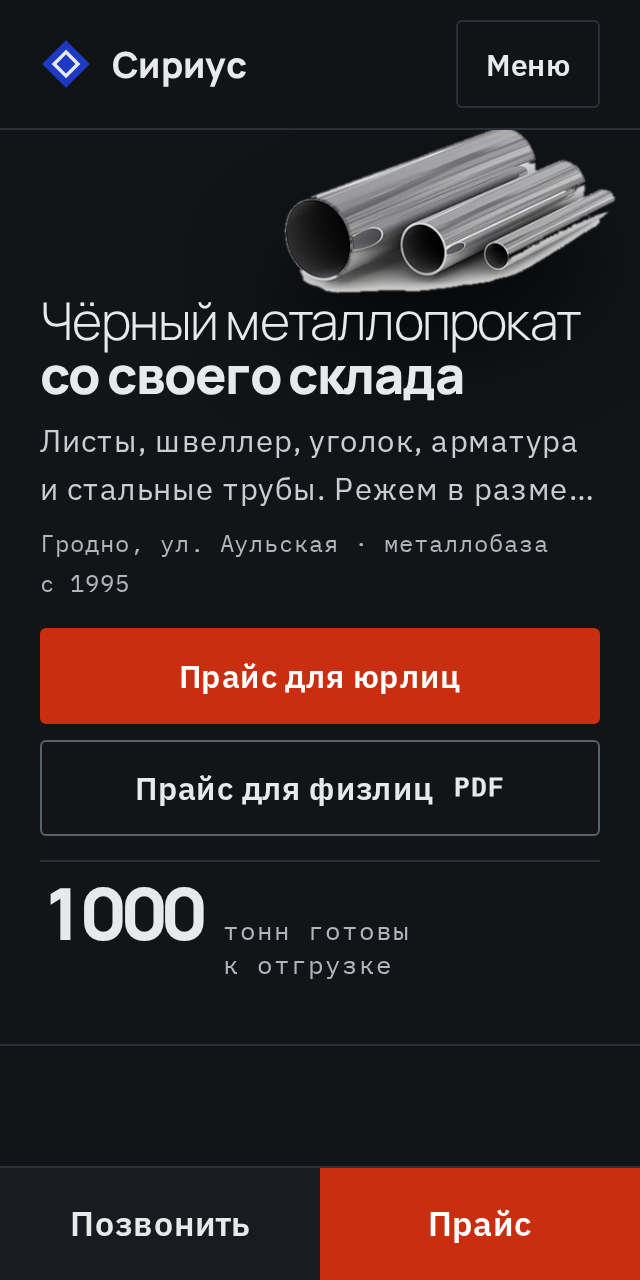
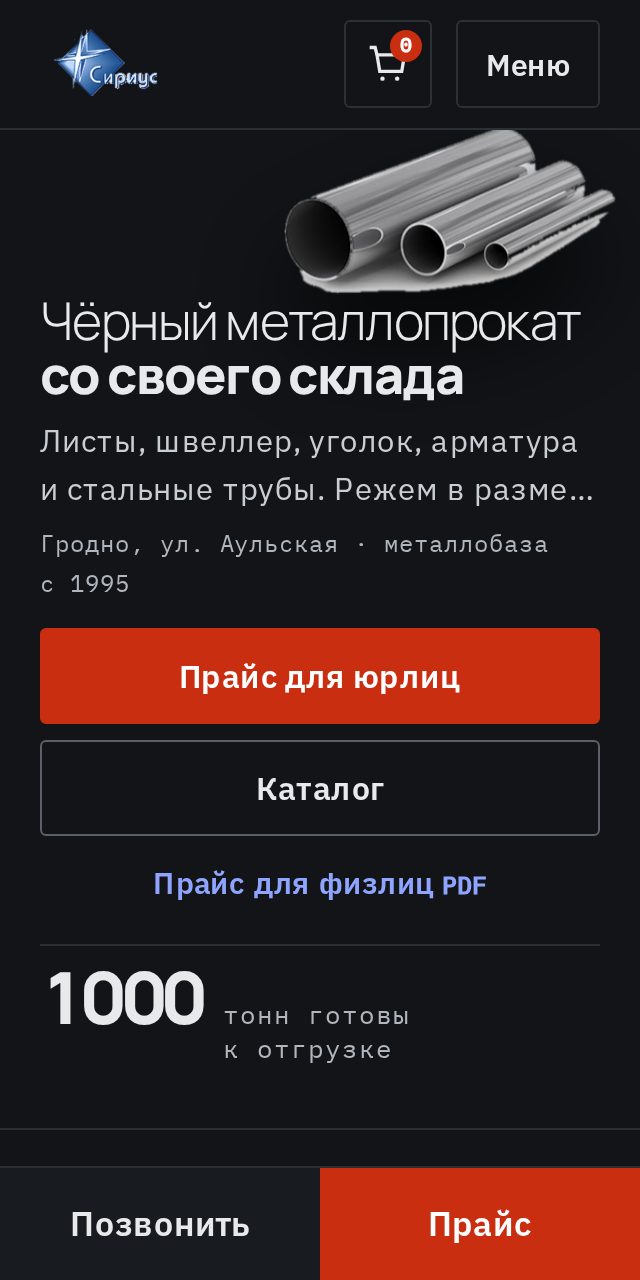
UX pass: header hierarchy and clearer homepage CTAs
- Header: primary bar (logo, nav, Прайс, callback, wishlist, lang);
  phones grouped Офис/Моб. + warehouse hours strip
- Mobile: progressive disclosure — phones/callback in Меню; dock Call|Прайс
- Hero: primary price + Catalog; физлица PDF as secondary link
- Same facts, phones, logo, photos, WP comments

diff --git a/assets/style.css b/assets/style.css
@@ -9,7 +9,7 @@
 }
 *,*::before,*::after{box-sizing:border-box}
 html{-webkit-text-size-adjust:100%;scroll-behavior:smooth}
-body{margin:0;background:var(--bg);color:var(--ink);font:400 1.0625rem/1.65 var(--f-t);letter-spacing:.01em;overflow-wrap:break-word;text-wrap:pretty}
+html{overflow-x:clip}body{margin:0;background:var(--bg);color:var(--ink);font:400 1.0625rem/1.65 var(--f-t);letter-spacing:.01em;overflow-wrap:break-word;text-wrap:pretty}
 ::selection{background:var(--brand);color:#fff}
 img{max-width:100%;height:auto;display:block}
 a{color:inherit}
@@ -34,36 +34,44 @@ h3{font-family:var(--f-d);font-weight:700;letter-spacing:-.02em}
 .link{color:var(--link);font-weight:600;text-decoration:none;border-bottom:1px solid transparent;transition:border-color .16s}
 .link:hover{border-color:currentColor}
 
-/* header — two bars like sirius.by, dark «Под краном» */
-.hdr{position:sticky;top:0;z-index:20;background:rgba(18,20,23,.97);border-bottom:1px solid var(--line)}
-.hdr__top{border-bottom:1px solid var(--line);background:#0e1013;padding:10px var(--pad)}
-.hdr__top-in{max-width:var(--max);margin:auto;padding:0;display:flex;align-items:center;justify-content:space-between;gap:20px;flex-wrap:wrap}
-.hdr__callback{font:600 .875rem/1.3 var(--f-t);color:var(--link);text-decoration:none;border-bottom:1px solid transparent;white-space:nowrap}
-.hdr__callback:hover{border-color:currentColor}
-.hdr__phones{display:flex;flex-wrap:wrap;gap:6px 22px;list-style:none;margin:0;padding:0;font:500 .8125rem/1.35 var(--f-m);font-variant-numeric:tabular-nums}
-.hdr__phones a{color:var(--ink);text-decoration:none;display:inline-flex;align-items:center;min-height:28px}
-.hdr__phones a:hover{color:var(--link)}
-.hdr__bottom-in{max-width:var(--max);margin:auto;padding:10px var(--pad);display:flex;align-items:center;gap:28px}
+/* header — UX hierarchy: logo · nav · Прайс / звонок / список · phones grouped */
+.hdr{position:sticky;top:0;z-index:20;background:rgba(18,20,23,.98);border-bottom:1px solid var(--line)}
+.hdr__bar-in{max-width:var(--max);margin:auto;padding:12px var(--pad);display:flex;align-items:center;gap:28px;position:relative}
 .brand{display:flex;align-items:center;text-decoration:none;flex:none}
-.brand__logo{display:block;height:52px;width:auto}
-.nav{margin-left:auto}.nav ul{display:flex;gap:22px}
-.nav a{text-decoration:none;color:var(--dim);font-size:.9375rem;transition:color .16s;display:inline-flex;align-items:center;min-height:44px;padding:0 2px}.nav a:hover{color:var(--ink)}
-.hdr__tools{display:flex;align-items:center;gap:16px;flex:none}
-.lang{display:flex;align-items:center;gap:0;border:1px solid var(--line);border-radius:3px;overflow:hidden;font:700 .75rem/1 var(--f-m);letter-spacing:.04em}
-.lang a{padding:10px 12px;text-decoration:none;color:var(--dim);min-height:36px;display:inline-flex;align-items:center}
-.lang a:hover{color:var(--ink);background:var(--bg-2)}
-.lang a.is-active{background:var(--brand);color:#fff}
-.wish{position:relative;display:inline-flex;align-items:center;justify-content:center;width:44px;height:44px;color:var(--ink);text-decoration:none;border:1px solid var(--line);border-radius:3px}
+.brand__logo{display:block;height:48px;width:auto}
+.nav{flex:1;min-width:0}
+.nav ul{display:flex;flex-wrap:wrap;gap:4px 20px;justify-content:center}
+.nav a{text-decoration:none;color:var(--dim);font-size:.9375rem;font-weight:500;display:inline-flex;align-items:center;min-height:44px;padding:0 4px;border-bottom:2px solid transparent;transition:color .16s,border-color .16s}
+.nav a:hover{color:var(--ink);border-bottom-color:var(--line)}
+.hdr__actions{display:flex;align-items:center;gap:12px;flex:none}
+.hdr__callback{font:600 .8125rem/1.2 var(--f-t);color:var(--link);text-decoration:none;padding:10px 12px;min-height:44px;display:inline-flex;align-items:center;border:1px solid var(--line);border-radius:3px;white-space:nowrap}
+.hdr__callback:hover{border-color:#3a4048;background:var(--bg-2)}
+.wish{position:relative;display:inline-flex;align-items:center;gap:8px;min-height:44px;padding:0 12px 0 10px;color:var(--ink);text-decoration:none;border:1px solid var(--line);border-radius:3px;font:600 .8125rem/1 var(--f-t)}
 .wish:hover{background:var(--bg-2);border-color:#5a616a}
-.wish__badge{position:absolute;top:4px;right:4px;min-width:16px;height:16px;padding:0 4px;border-radius:8px;background:var(--act);color:#fff;font:700 10px/16px var(--f-m);text-align:center}
-.mnav{display:none;position:relative;margin-left:auto}
-.mnav summary{list-style:none;cursor:pointer;font:600 .9375rem/1 var(--f-t);padding:10px 12px;border:1px solid var(--line);border-radius:3px;min-height:42px;display:flex;align-items:center}
+.wish__badge{position:absolute;top:6px;left:26px;min-width:16px;height:16px;padding:0 4px;border-radius:8px;background:var(--act);color:#fff;font:700 10px/16px var(--f-m);text-align:center}
+.wish__lbl{color:var(--dim)}
+.lang{display:flex;align-items:center;gap:6px;font:700 .75rem/1 var(--f-m);letter-spacing:.04em;padding-left:4px}
+.lang a{color:var(--dim);text-decoration:none;min-height:44px;display:inline-flex;align-items:center;padding:0 4px}
+.lang a.is-active{color:var(--ink)}
+.lang a:hover{color:var(--ink)}
+.lang__sep{color:var(--line);user-select:none}
+.mnav{display:none;position:relative;z-index:5;flex:none}
+.mnav summary{list-style:none;cursor:pointer;font:600 .9375rem/1 var(--f-t);padding:0 14px;border:1px solid var(--line);border-radius:3px;min-height:44px;min-width:44px;display:flex;align-items:center;justify-content:center}
 .mnav summary::-webkit-details-marker{display:none}
-.mnav[open] summary{border-color:#5a616a}
-.mnav ul{position:absolute;right:0;top:calc(100% + 8px);min-width:220px;background:var(--bg-2);border:1px solid var(--line);border-radius:3px;padding:8px 0;z-index:50}
-.mnav a{display:block;padding:12px 18px;text-decoration:none;color:var(--ink);font-weight:500}
+.mnav[open] summary{border-color:#5a616a;background:var(--bg-2)}
+.mnav ul{position:absolute;right:0;top:calc(100% + 8px);min-width:260px;background:var(--bg-2);border:1px solid var(--line);border-radius:3px;padding:8px 0;z-index:50;box-shadow:0 16px 40px rgba(0,0,0,.45);max-height:min(75vh,560px);overflow:auto}
+.mnav a{display:flex;align-items:center;min-height:48px;padding:0 18px;text-decoration:none;color:var(--ink);font-weight:500}
 .mnav a:hover{background:#1f2328}
-.mnav{z-index:50}
+.mnav__phones{display:grid;gap:0;padding:8px 0;border-top:1px solid var(--line);border-bottom:1px solid var(--line);margin:6px 0}
+.mnav__phones a{font:500 .875rem/1.2 var(--f-m);color:var(--dim);min-height:44px}
+
+.hdr__contact{border-top:1px solid var(--line);background:#0e1013;padding:12px var(--pad)}
+.hdr__contact-in{max-width:var(--max);margin:auto;padding:0;display:flex;align-items:center;gap:28px;flex-wrap:wrap}
+.phone-group{display:flex;align-items:baseline;gap:12px;flex-wrap:wrap}
+.phone-group__lbl{font:700 .6875rem/1 var(--f-m);letter-spacing:.1em;text-transform:uppercase;color:var(--dim);margin-right:4px}
+.phone-group a{font:500 .875rem/1.3 var(--f-m);font-variant-numeric:tabular-nums;color:var(--ink);text-decoration:none;min-height:36px;display:inline-flex;align-items:center}
+.phone-group a:hover{color:var(--link)}
+.hdr__hours{margin-left:auto;color:var(--dim);font-size:.75rem}
 
 /* hero — exhibit in dark hall */
 .hero{border-bottom:1px solid var(--line);overflow:hidden;min-height:min(880px,calc(100svh - 66px))}
@@ -73,7 +81,8 @@ h3{font-family:var(--f-d);font-weight:700;letter-spacing:-.02em}
 .hero h1{font-size:clamp(2.5rem,5.8vw,4.75rem);line-height:1.02;margin:0 0 22px;max-width:18ch}
 .hero__lead{color:#c9ced4;font-size:1.125rem;line-height:1.55;max-width:36em;margin-bottom:14px;letter-spacing:.015em}
 .hero__meta{color:var(--dim);margin-bottom:32px;font-size:.8125rem}
-.hero__acts{display:flex;flex-wrap:wrap;gap:12px}
+.hero__acts{display:flex;flex-wrap:wrap;align-items:center;gap:12px 18px}
+.hero__pdf{font-size:.9375rem}
 .hero__ton{position:relative;z-index:1;text-align:right;display:flex;flex-direction:column;align-items:flex-end;padding:12px 0;border-bottom:1px solid var(--line)}
 .hero__n{font:800 clamp(4.5rem,12vw,9.5rem)/.85 var(--f-d);letter-spacing:-.045em;font-variant-numeric:tabular-nums}
 .hero__ton .mono{color:var(--dim);margin-top:10px;max-width:12ch;text-align:right}
@@ -96,7 +105,7 @@ h3{font-family:var(--f-d);font-weight:700;letter-spacing:-.02em}
 .show__group{font:500 .75rem/1.3 var(--f-m);letter-spacing:.1em;text-transform:uppercase;color:var(--dim)}
 .show__name{font:700 1.375rem/1.2 var(--f-d);letter-spacing:-.02em;margin:8px 0 20px}
 .show__more{margin-top:auto;color:var(--link);font-weight:600;font-size:.9375rem}
-.show__hint{color:var(--dim);margin-top:12px}
+.show__hint{color:var(--dim);margin-top:12px;opacity:.7}
 
 /* services — process strip */
 .svc{padding:var(--space-9) 0;border-bottom:1px solid var(--line)}
@@ -181,8 +190,10 @@ h3{font-family:var(--f-d);font-weight:700;letter-spacing:-.02em}
 /* —— adapt: tablet / narrow desktop —— */
 @media (max-width:1100px){
   .nav{display:none}
-  .hdr__price{display:none}
-  .mnav{display:block;margin-left:12px}
+  .wish__lbl,.hdr__hours{display:none}
+  .mnav{display:block}
+  .hdr__bar-in{gap:16px}
+  .hdr__actions{margin-left:auto;gap:8px}
   .svc__grid,.req__grid{grid-template-columns:1fr;gap:var(--space-6)}
   .yard{grid-template-columns:1fr;min-height:0}
   .yard__ph{min-height:min(42vw,420px)}
@@ -198,15 +209,15 @@ h3{font-family:var(--f-d);font-weight:700;letter-spacing:-.02em}
 @media (max-width:700px){
   body{font-size:1rem;letter-spacing:.012em;padding-bottom:calc(58px + env(safe-area-inset-bottom,0px))}
   .hdr{padding-top:env(safe-area-inset-top,0px)}
-  .hdr__top-in{padding:0;gap:10px}
-  .hdr__top{padding:8px var(--pad)}
-  .hdr__callback{font-size:.8125rem}
-  .hdr__phones{gap:2px 14px;font-size:.75rem;width:100%;order:2}
-  .hdr__bottom-in{padding:8px var(--pad);gap:12px}
-  .brand__logo{height:44px}
-  .hdr__tools .lang,.hdr__tools .hdr__price{display:none}
-  .wish{width:40px;height:40px}
-  .mnav summary{min-width:44px;min-height:44px;padding:0 14px;justify-content:center}
+  .hdr__contact{display:none} /* phones via Меню + sticky Позвонить */
+  .hdr__bar-in{padding:10px var(--pad);gap:12px}
+  .brand__logo{height:40px}
+  .hdr__price,.hdr__callback{display:none} /* dock Call+Price; callback in Меню */
+  .lang{display:none} /* in mnav as English */
+  .wish{padding:0;width:44px;justify-content:center}
+  .wish__lbl{display:none}
+  .wish__badge{left:auto;right:4px;top:4px}
+  .mnav summary{min-width:44px;min-height:44px;padding:0 14px}
   .mnav ul{right:0;left:auto;max-height:min(70vh,480px);overflow:auto;box-shadow:0 16px 40px rgba(0,0,0,.45)}
   .mnav a{min-height:48px;display:flex;align-items:center;padding:0 18px;font-size:1.0625rem}
 

diff --git a/index.html b/index.html
@@ -14,57 +14,75 @@
 
 <!-- WP: template-part header.php -->
 <header class="hdr">
-  <div class="hdr__top">
-    <div class="hdr__top-in">
-      <a class="hdr__callback" href="#request">Заказать обратный звонок</a>
-      <ul class="hdr__phones" aria-label="Телефоны">
-        <li><a href="tel:+375152553490">+375 (152) 55 34 90</a></li>
-        <li><a href="tel:+375152553491">+375 (152) 55 34 91</a></li>
-        <li><a href="tel:+375297884477">+375 (29) 788 44 77</a></li>
-        <li><a href="tel:+375291114477">+375 (29) 111 44 77</a></li>
-      </ul>
-    </div>
-  </div>
-  <div class="hdr__bottom">
-    <div class="hdr__bottom-in">
+  <div class="hdr__bar">
+    <div class="hdr__bar-in">
       <a class="brand" href="https://sirius.by/" aria-label="Сириус — на главную">
         <img class="brand__logo" src="assets/img/logo-sirius.png" width="170" height="100" alt="Сириус">
       </a>
+
       <nav class="nav" aria-label="Основное меню">
         <ul>
-          <li><a href="https://sirius.by/">Главная</a></li>
-          <li><a href="https://sirius.by/about/">О компании</a></li>
-          <li><a href="https://sirius.by/price-list/">Цены</a></li>
           <li><a href="https://sirius.by/catalog/">Каталог</a></li>
+          <li><a href="https://sirius.by/price-list/">Цены</a></li>
+          <li><a href="#services">Услуги</a></li>
+          <li><a href="https://sirius.by/about/">О компании</a></li>
           <li><a href="https://sirius.by/contacts/">Контакты</a></li>
         </ul>
       </nav>
-      <div class="hdr__tools">
+
+      <div class="hdr__actions">
+        <a class="btn btn--sm hdr__price" href="https://sirius.by/price-list/">Прайс</a>
+        <a class="hdr__callback" href="#request">Заказать обратный звонок</a>
+        <a class="wish" href="#" aria-label="Список выбранного, пусто">
+          <svg class="wish__ico" viewBox="0 0 24 24" width="22" height="22" aria-hidden="true" fill="none" stroke="currentColor" stroke-width="1.8"><path d="M6 7h15l-1.5 9h-12z"/><path d="M6 7 5 3H2"/><circle cx="9" cy="20" r="1.2" fill="currentColor" stroke="none"/><circle cx="17" cy="20" r="1.2" fill="currentColor" stroke="none"/></svg>
+          <span class="wish__badge">0</span>
+          <span class="wish__lbl">Список</span>
+        </a>
         <div class="lang" aria-label="Язык">
           <a class="lang__ru is-active" href="https://sirius.by/" hreflang="ru" lang="ru" aria-current="true">RU</a>
+          <span class="lang__sep" aria-hidden="true">/</span>
           <a class="lang__en" href="https://sirius.by/en/main/" hreflang="en" lang="en">ENG</a>
         </div>
-        <a class="wish" href="#" aria-label="Список выбранного">
-          <svg class="wish__ico" viewBox="0 0 24 24" width="22" height="22" aria-hidden="true" fill="none" stroke="currentColor" stroke-width="1.8"><path d="M6 7h15l-1.5 9h-12z"/><path d="M6 7 5 3H2"/><circle cx="9" cy="20" r="1.2" fill="currentColor" stroke="none"/><circle cx="17" cy="20" r="1.2" fill="currentColor" stroke="none"/></svg>
-          <span class="wish__badge" aria-hidden="true">0</span>
-        </a>
-        <a class="btn btn--sm hdr__price" href="https://sirius.by/price-list/">Прайс</a>
       </div>
+
       <details class="mnav">
         <summary aria-label="Открыть меню сайта">Меню</summary>
         <ul>
-          <li><a href="https://sirius.by/">Главная</a></li>
-          <li><a href="https://sirius.by/about/">О компании</a></li>
-          <li><a href="https://sirius.by/price-list/">Цены</a></li>
           <li><a href="https://sirius.by/catalog/">Каталог</a></li>
+          <li><a href="https://sirius.by/price-list/">Цены</a></li>
+          <li><a href="#services">Услуги</a></li>
+          <li><a href="https://sirius.by/about/">О компании</a></li>
           <li><a href="https://sirius.by/contacts/">Контакты</a></li>
-          <li><a href="#request">Обратный звонок</a></li>
+          <li><a href="#request">Заказать обратный звонок</a></li>
+          <li class="mnav__phones" aria-label="Телефоны">
+            <a href="tel:+375152553490">+375 (152) 55 34 90</a>
+            <a href="tel:+375152553491">+375 (152) 55 34 91</a>
+            <a href="tel:+375297884477">+375 (29) 788 44 77</a>
+            <a href="tel:+375291114477">+375 (29) 111 44 77</a>
+          </li>
           <li><a href="https://sirius.by/en/main/" lang="en">English</a></li>
         </ul>
       </details>
     </div>
   </div>
+
+  <div class="hdr__contact" aria-label="Связь">
+    <div class="hdr__contact-in">
+      <div class="phone-group">
+        <span class="phone-group__lbl">Офис</span>
+        <a href="tel:+375152553490">+375 (152) 55 34 90</a>
+        <a href="tel:+375152553491">+375 (152) 55 34 91</a>
+      </div>
+      <div class="phone-group">
+        <span class="phone-group__lbl">Моб.</span>
+        <a href="tel:+375297884477">+375 (29) 788 44 77</a>
+        <a href="tel:+375291114477">+375 (29) 111 44 77</a>
+      </div>
+      <p class="hdr__hours mono">Склад пн–пт 8.00–16.30 · оплата на складе</p>
+    </div>
+  </div>
 </header>
+
 
 <main id="main" tabindex="-1">
 
@@ -78,7 +96,8 @@
       <p class="hero__meta mono">Гродно, ул. Аульская · металлобаза с 1995</p>
       <div class="hero__acts">
         <a class="btn" href="https://sirius.by/price-list/">Прайс для юрлиц</a>
-        <a class="btn btn--ghost" href="https://sirius.by/wp-content/uploads/2026/10/%D0%A0%D0%9E%D0%97%D0%9D%D0%98%D0%A7%D0%9D%D0%AB%D0%95-%D0%A6%D0%95%D0%9D%D0%AB.-1.pdf">Прайс для физлиц <span class="mono">PDF</span></a>
+        <a class="btn btn--ghost" href="https://sirius.by/catalog/">Каталог</a>
+        <a class="hero__pdf link" href="https://sirius.by/wp-content/uploads/2026/10/%D0%A0%D0%9E%D0%97%D0%9D%D0%98%D0%A7%D0%9D%D0%AB%D0%95-%D0%A6%D0%95%D0%9D%D0%AB.-1.pdf">Прайс для физлиц <span class="mono">PDF</span></a>
       </div>
     </div>
     <p class="hero__ton"><span class="hero__n">1000</span><span class="mono">тонн готовы к отгрузке</span></p>
